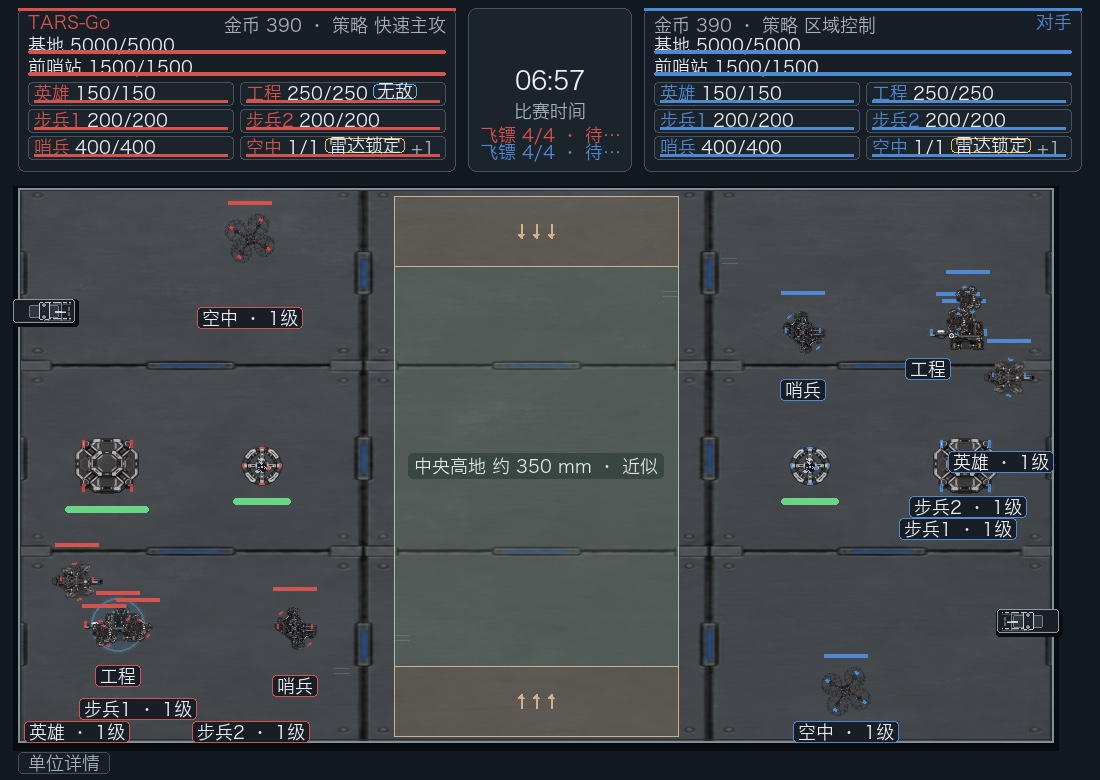
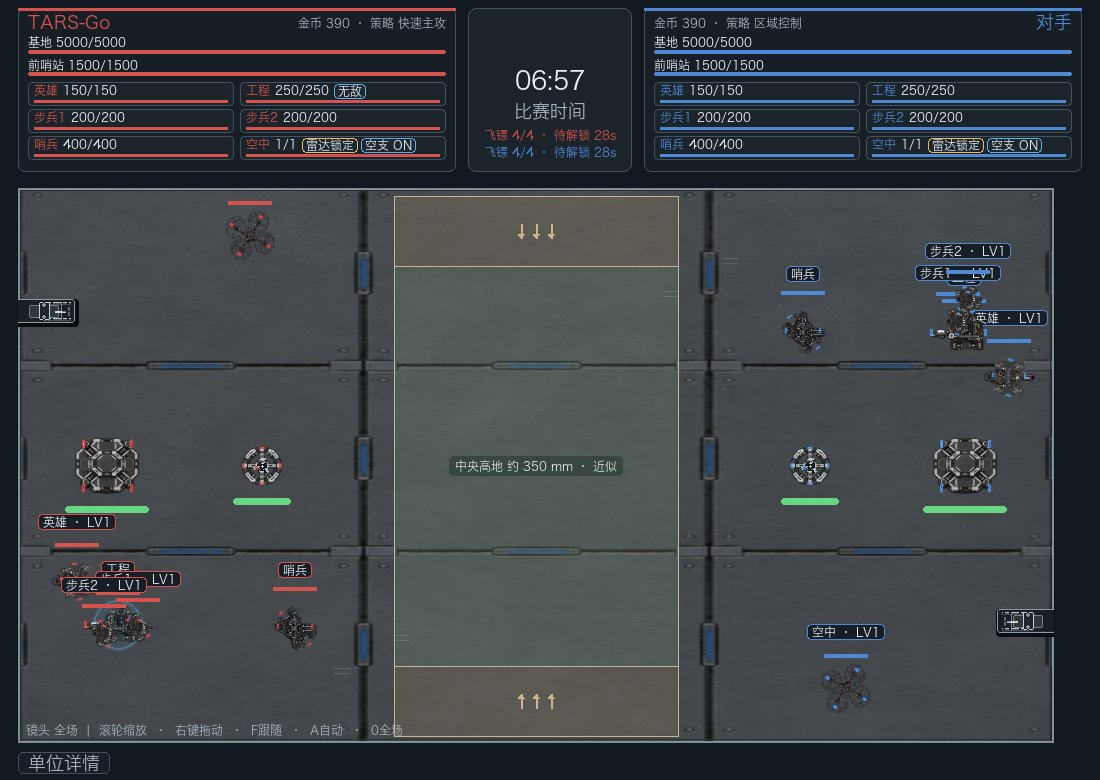
Keep robot labels fixed above health bars

diff --git a/src/tarsgo_simulator/desktop/app.py b/src/tarsgo_simulator/desktop/app.py
@@ -1839,59 +1839,22 @@ def _draw_compact_badges(
         cursor_x += width + 3
 
 
-def _rmuc_map_label_rect(
+def _robot_label_rect(
     label_surface: pygame.Surface,
     *,
     center: tuple[int, int],
     radius: int,
-    field_rect: pygame.Rect,
-    occupied_labels: list[pygame.Rect],
-    other_robot_bodies: list[pygame.Rect],
+    health_bar_rect: pygame.Rect | None,
 ) -> pygame.Rect:
-    width = label_surface.get_width() + 10
-    height = label_surface.get_height() + 4
-    x, y = center
-    directions = (
-        (0, 1), (0, -1), (1, 0), (-1, 0),
-        (1, 1), (-1, 1), (1, -1), (-1, -1),
+    """Keep each robot label at a stable position immediately above its bar."""
+    label_bottom = (
+        health_bar_rect.top - 4
+        if health_bar_rect is not None
+        else center[1] - radius - 6
     )
-    spacing = max(width, height) + 8
-    base_distance = radius + 9 + max(width, height) // 2
-    candidates = []
-    for ring in range(4):
-        distance = base_distance + ring * spacing
-        for dx, dy in directions:
-            diagonal_scale = 0.7071 if dx and dy else 1.0
-            candidate = label_surface.get_rect(
-                center=(
-                    round(x + dx * distance * diagonal_scale),
-                    round(y + dy * distance * diagonal_scale),
-                )
-            ).inflate(10, 4)
-            candidates.append(candidate)
-    default_center = candidates[0].center
-    best_rect = candidates[0].copy()
-    best_score: tuple[int, int, int] | None = None
-    for index, candidate in enumerate(candidates):
-        candidate = candidate.copy()
-        candidate.clamp_ip(field_rect)
-        label_collisions = sum(
-            candidate.colliderect(occupied)
-            for occupied in occupied_labels
-        )
-        body_collisions = sum(
-            candidate.colliderect(body)
-            for body in other_robot_bodies
-        )
-        displacement = (
-            abs(candidate.centerx - default_center[0])
-            + abs(candidate.centery - default_center[1])
-        )
-        score = (body_collisions, label_collisions, displacement + index)
-        if best_score is None or score < best_score:
-            best_rect = candidate
-            best_score = score
-    return best_rect
+    return label_surface.get_rect(
+        midbottom=(center[0], label_bottom),
+    ).inflate(10, 4)
 
 
 def _draw_rmuc_roster_tile(
@@ -5161,7 +5124,7 @@ def _draw(
         )
         for robot in match.robots
     }
-    robot_body_rects: dict[str, pygame.Rect] = {}
+    robot_radii: dict[str, int] = {}
     robot_health_bar_rects: dict[str, pygame.Rect] = {}
     for robot in match.robots:
         if is_rmuc:
@@ -5174,14 +5137,12 @@ def _draw(
                 50 if robot.type == "drone" else 0,
             )
             radius = max(9, round((body_extent // 2 + 7) * magnification))
-            body_rect = pygame.Rect(0, 0, radius * 2, radius * 2)
-            body_rect.center = map_centers[robot.id]
-            robot_body_rects[robot.id] = body_rect
         else:
             radius = max(
                 9,
                 round(viewport.world_length_to_screen(match.map.collision_radius)),
             )
+        robot_radii[robot.id] = radius
         if is_rmuc or robot.type != "drone":
             bar_width = min(96, round(44 * magnification)) if is_rmuc else 48
             bar_height = 4 if is_rmuc else 6
@@ -5192,10 +5153,9 @@ def _draw(
                 bar_height,
             )
             robot_health_bar_rects[robot.id] = bar_rect
-    occupied_map_labels: list[pygame.Rect] = []
-    occupied_level_tags: list[pygame.Rect] = []
     for robot in match.robots:
         center = map_centers[robot.id]
+        radius = robot_radii[robot.id]
         if (
             is_rmuc and magnification > 1.001
             and not screen.get_clip().inflate(
@@ -5308,75 +5268,36 @@ def _draw(
 
         progression = progression_by_robot.get(robot.id)
         robot_label = display_names.get(robot.id, "机器人")
-        if is_rmuc:
-            map_label = (
-                f"{robot_label} · {progression[0]}级"
-                if progression is not None
-                else robot_label
-            )
-            if debug_geometry:
-                if not robot.alive:
-                    map_label = f"{map_label} · 阵亡"
-                elif visual_robot is not None and visual_robot.respawn_remaining > 0:
-                    map_label = f"{map_label} · 复活"
-            label_surface = hud_font.render(
-                map_label,
-                True,
-                TEXT_COLOR if robot.alive else MUTED_COLOR,
-            )
-            label_rect = _rmuc_map_label_rect(
-                label_surface,
-                center=center,
-                radius=radius,
-                field_rect=field_rect,
-                occupied_labels=occupied_map_labels,
-                other_robot_bodies=[
-                    body_rect
-                    for robot_id, body_rect in robot_body_rects.items()
-                    if robot_id != robot.id
-                ] + list(robot_health_bar_rects.values()),
-            )
-            occupied_map_labels.append(label_rect)
-            pygame.draw.rect(screen, PANEL_BACKGROUND, label_rect, border_radius=4)
-            pygame.draw.rect(
-                screen,
-                color if robot.alive else MUTED_COLOR,
-                label_rect,
-                width=1,
-                border_radius=4,
-            )
-            screen.blit(label_surface, label_surface.get_rect(center=label_rect.center))
-        else:
-            if progression is not None:
-                level_surface = hud_font.render(
-                    f"{progression[0]}级",
-                    True,
-                    TEXT_COLOR,
-                )
-                level_rect = _robot_level_tag_rect(
-                    level_surface,
-                    robot_id=robot.id,
-                    center=center,
-                    radius=radius,
-                    field_rect=field_rect,
-                    robot_body_rects=robot_body_rects,
-                    occupied_tags=occupied_level_tags,
-                )
-                occupied_level_tags.append(level_rect)
-                pygame.draw.rect(screen, PANEL_BACKGROUND, level_rect, border_radius=4)
-                pygame.draw.rect(screen, color, level_rect, width=1, border_radius=4)
-                screen.blit(level_surface, level_surface.get_rect(center=level_rect.center))
-            label_surface = small_font.render(
-                robot_label,
-                True,
-                TEXT_COLOR if robot.alive else MUTED_COLOR,
-            )
-            screen.blit(
-                label_surface,
-                label_surface.get_rect(
-                    center=(center[0], center[1] + radius + 11)
-                ),
-            )
+        map_label = (
+            f"{robot_label} · LV{progression[0]}"
+            if progression is not None
+            else robot_label
+        )
+        if is_rmuc and debug_geometry:
+            if not robot.alive:
+                map_label = f"{map_label} · 阵亡"
+            elif visual_robot is not None and visual_robot.respawn_remaining > 0:
+                map_label = f"{map_label} · 复活"
+        label_surface = hud_font.render(
+            map_label,
+            True,
+            TEXT_COLOR if robot.alive else MUTED_COLOR,
+        )
+        label_rect = _robot_label_rect(
+            label_surface,
+            center=center,
+            radius=radius,
+            health_bar_rect=robot_health_bar_rects.get(robot.id),
+        )
+        pygame.draw.rect(screen, PANEL_BACKGROUND, label_rect, border_radius=4)
+        pygame.draw.rect(
+            screen,
+            color if robot.alive else MUTED_COLOR,
+            label_rect,
+            width=1,
+            border_radius=4,
+        )
+        screen.blit(label_surface, label_surface.get_rect(center=label_rect.center))
         if debug_geometry:
             robot_status = robot_statuses.get(robot.id)
             if robot_status:
@@ -5623,51 +5544,6 @@ def _draw_report_value(
 ) -> None:
     surface = font.render(text, True, TEXT_COLOR)
     screen.blit(surface, surface.get_rect(midright=(right, y + 7)))
-
-
-def _robot_level_tag_rect(
-    level_surface: pygame.Surface,
-    *,
-    robot_id: str,
-    center: tuple[int, int],
-    radius: int,
-    field_rect: pygame.Rect,
-    robot_body_rects: dict[str, pygame.Rect],
-    occupied_tags: list[pygame.Rect],
-) -> pygame.Rect:
-    candidates = (
-        level_surface.get_rect(
-            midbottom=(center[0], center[1] - radius - 18),
-        ).inflate(8, 4),
-        level_surface.get_rect(
-            midtop=(center[0], center[1] + radius + 12),
-        ).inflate(8, 4),
-        level_surface.get_rect(
-            midright=(center[0] - radius - 8, center[1]),
-        ).inflate(8, 4),
-        level_surface.get_rect(
-            midleft=(center[0] + radius + 8, center[1]),
-        ).inflate(8, 4),
-    )
-    best_rect = candidates[0].copy()
-    best_score = None
-    for index, candidate in enumerate(candidates):
-        candidate = candidate.copy()
-        candidate.clamp_ip(field_rect)
-        body_collisions = sum(
-            candidate.colliderect(body)
-            for other_id, body in robot_body_rects.items()
-            if other_id != robot_id
-        )
-        tag_collisions = sum(
-            candidate.colliderect(tag)
-            for tag in occupied_tags
-        )
-        score = (body_collisions, tag_collisions, index)
-        if best_score is None or score < best_score:
-            best_rect = candidate
-            best_score = score
-    return best_rect
 
 
 def _format_match_duration(seconds: float) -> str:

diff --git a/tests/test_desktop_rmuc_ui.py b/tests/test_desktop_rmuc_ui.py
@@ -322,42 +322,38 @@ def test_energy_mechanism_timers_use_team_scoped_display_state() -> None:
     assert app._rmuc_energy_timer_labels(match, opponent_team) == ()
 
 
-def test_rmuc_map_labels_separate_when_robots_cluster() -> None:
+def test_robot_labels_stay_fixed_above_health_bars() -> None:
     app = _app()
     pygame = importlib.import_module("pygame")
     pygame.font.init()
-    label_surface = app.ui_font(12).render("步兵2 · 3级", True, (255, 255, 255))
-    field_rect = pygame.Rect(0, 0, 300, 200)
-    centers = [(150, 100)] * 6
-    body_rects = []
-    for center in centers:
-        body = pygame.Rect(0, 0, 54, 54)
-        body.center = center
-        body_rects.append(body)
+    label_surface = app.ui_font(12).render("步兵1 · LV3", True, (255, 255, 255))
     health_bar = pygame.Rect(110, 52, 80, 4)
 
-    placed = []
-    for index, center in enumerate(centers):
-        label_rect = app._rmuc_map_label_rect(
-            label_surface,
-            center=center,
-            radius=20,
-            field_rect=field_rect,
-            occupied_labels=placed,
-            other_robot_bodies=[
-                body
-                for body_index, body in enumerate(body_rects)
-                if body_index != index
-            ] + [health_bar],
-        )
-        assert not any(label_rect.colliderect(other) for other in placed)
-        assert not any(
-            label_rect.colliderect(body)
-            for body_index, body in enumerate(body_rects)
-            if body_index != index
-        )
-        assert not label_rect.colliderect(health_bar)
-        placed.append(label_rect)
+    first = app._robot_label_rect(
+        label_surface,
+        center=(150, 100),
+        radius=20,
+        health_bar_rect=health_bar,
+    )
+    second = app._robot_label_rect(
+        label_surface,
+        center=(150, 100),
+        radius=20,
+        health_bar_rect=health_bar,
+    )
+
+    assert first == second
+    assert first.centerx == health_bar.centerx
+    assert first.bottom == health_bar.top - 2
+
+    no_bar = app._robot_label_rect(
+        label_surface,
+        center=(150, 100),
+        radius=20,
+        health_bar_rect=None,
+    )
+    assert no_bar.centerx == 150
+    assert no_bar.bottom == 100 - 20 - 4
 
 
 def test_rmuc_spectator_map_uses_chinese_names_and_only_real_levels() -> None:
@@ -410,17 +406,17 @@ def test_rmuc_spectator_map_uses_chinese_names_and_only_real_levels() -> None:
     debug_labels = render_labels(True)
     for robot_id, name in display_names.items():
         assert any(
-            text == name or text.startswith(f"{name} ·")
+            text == name or text.startswith(f"{name} · LV")
             for text in normal_labels
         ), (robot_id, name, normal_labels)
-    assert any(text.startswith("英雄 · 1级") for text in normal_labels)
+    assert "英雄 · LV1" in normal_labels
     assert "工程" in normal_labels
     assert "哨兵" in normal_labels
     assert "空中" in normal_labels
-    assert not any(text.startswith("工程 · ") for text in normal_labels)
-    assert not any(text.startswith("哨兵 · ") for text in normal_labels)
+    assert not any(text.startswith("工程 · LV") for text in normal_labels)
+    assert not any(text.startswith("哨兵 · LV") for text in normal_labels)
     assert all(
-        any(text == name or text.startswith(f"{name} ·") for text in debug_labels)
+        any(text == name or text.startswith(f"{name} · LV") for text in debug_labels)
         for name in display_names.values()
     )
 
